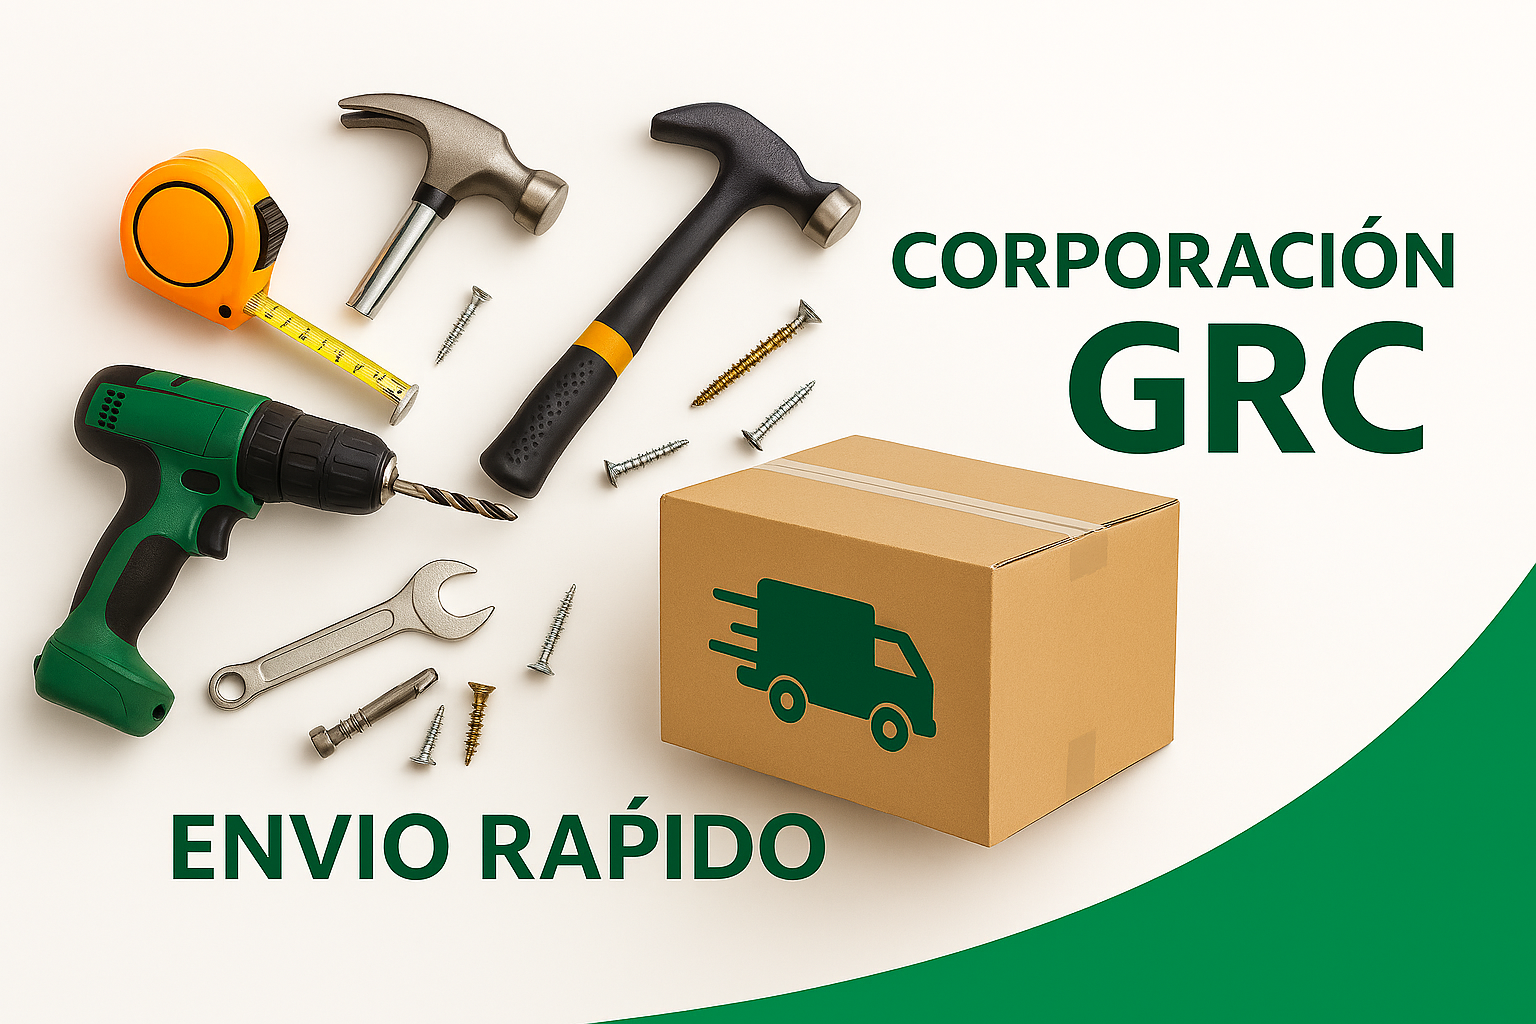
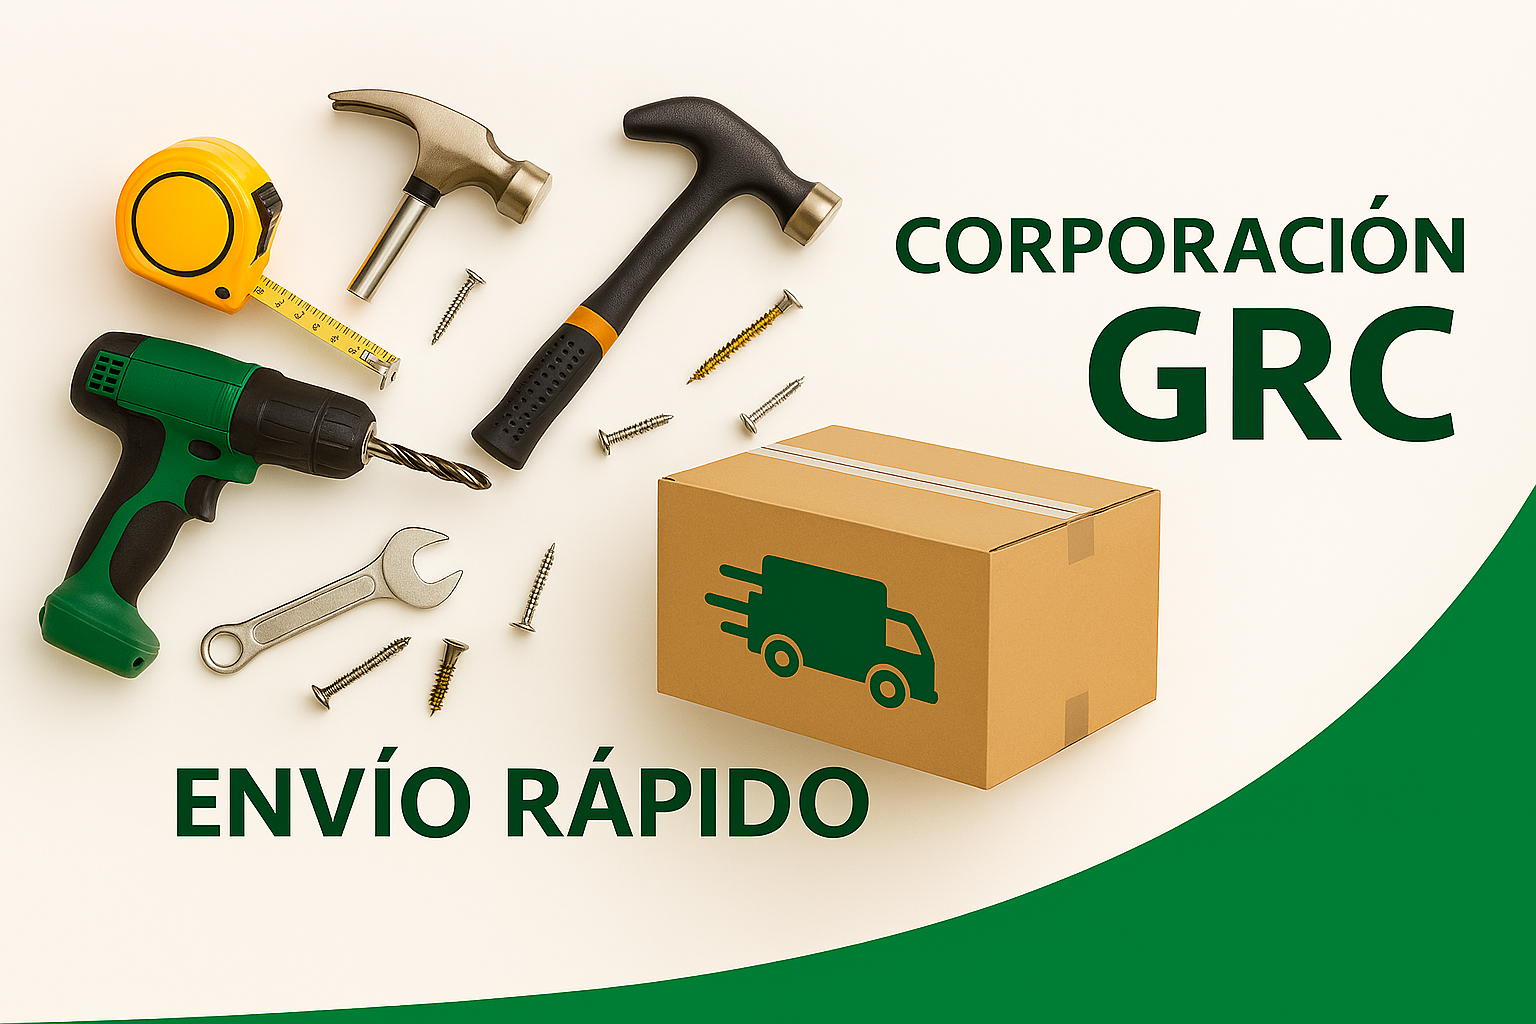
CAMBIOS DE TAMAÑO DE IMAGEN

Changed region(s): [[0.0, 0.0625, 1.0, 1.0]]

diff --git a/pages/index.js b/pages/index.js
@@ -141,10 +141,10 @@ export default function Home() {
       <div className="min-h-screen flex flex-col bg-gradient-to-b from-gray-50 to-white">
         <Header />
         <main className="flex-1 pt-20 pb-8">
-          {/* Hero Section - Banner con imagen completa - Ajuste automático */}
+          {/* Hero Section - Banner con imagen completa - Altura reducida */}
           <section className="relative bg-gradient-to-br from-green-600 via-emerald-600 to-teal-700 overflow-hidden">
-            {/* Carrusel de Imágenes - Se ajusta automáticamente a las dimensiones de las imágenes */}
-            <div className="relative w-full" style={{ aspectRatio: '16/9', minHeight: '400px' }}>
+            {/* Carrusel de Imágenes - Altura optimizada para laptops */}
+            <div className="relative w-full h-64 md:h-80 lg:h-96">
               <div className="relative w-full h-full">
                 {heroImages.map((image, index) => (
                   <div
